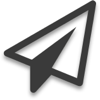
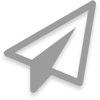
edit style

diff --git a/_layouts/home.html b/_layouts/home.html
@@ -1,39 +1,39 @@
 <!DOCTYPE html>
 <html>
 <!--
-                       ::
-                      :;J7, :,                        ::;7:
-                      ,ivYi, ,                       ;LLLFS:
-                      :iv7Yi                       :7ri;j5PL
-                     ,:ivYLvr                    ,ivrrirrY2X,
-                     :;r@Wwz.7r:                :ivu@kexianli.
-                    :iL7::,:::iiirii:ii;::::,,irvF7rvvLujL7ur
-                   ri::,:,::i:iiiiiii:i:irrv177JX7rYXqZEkvv17
-                ;i:, , ::::iirrririi:i:::iiir2XXvii;L8OGJr71i
-              :,, ,,:   ,::ir@mingyi.irii:i:::j1jri7ZBOS7ivv,
-                 ,::,    ::rv77iiiriii:iii:i::,rvLq@huhao.Li
-             ,,      ,, ,:ir7ir::,:::i;ir:::i:i::rSGGYri712:
-           :::  ,v7r:: ::rrv77:, ,, ,:i7rrii:::::, ir7ri7Lri
-          ,     2OBBOi,iiir;r::        ,irriiii::,, ,iv7Luur:
-        ,,     i78MBBi,:,:::,:,  :7FSL: ,iriii:::i::,,:rLqXv::
-        :      iuMMP: :,:::,:ii;2GY7OBB0viiii:i:iii:i:::iJqL;::
-       ,     ::::i   ,,,,, ::LuBBu BBBBBErii:i:i:i:i:i:i:r77ii
-      ,       :       , ,,:::rruBZ1MBBqi, :,,,:::,::::::iiriri:
-     ,               ,,,,::::i:  @arqiao.       ,:,, ,:::ii;i7:
-    :,       rjujLYLi   ,,:::::,:::::::::,,   ,:i,:,,,,,::i:iii
-    ::      BBBBBBBBB0,    ,,::: , ,:::::: ,      ,,,, ,,:::::::
-    i,  ,  ,8BMMBBBBBBi     ,,:,,     ,,, , ,   , , , :,::ii::i::
-    :      iZMOMOMBBM2::::::::::,,,,     ,,,,,,:,,,::::i:irr:i:::,
-    i   ,,:;u0MBMOG1L:::i::::::  ,,,::,   ,,, ::::::i:i:iirii:i:i:
-    :    ,iuUuuXUkFu7i:iii:i:::, :,:,: ::::::::i:i:::::iirr7iiri::
-    :     :rk@Yizero.i:::::, ,:ii:::::::i:::::i::,::::iirrriiiri::,
-     :      5BMBBBBBBSr:,::rv2kuii:::iii::,:i:,, , ,,:,:i@petermu.,
-          , :r50EZ8MBBBBGOBBBZP7::::i::,:::::,: :,:,::i;rrririiii::
-              :jujYY7LS0ujJL7r::,::i::,::::::::::::::iirirrrrrrr:ii:
-           ,:  :@kevensun.:,:,,,::::i:i:::::,,::::::iir;ii;7v77;ii;i,
-           ,,,     ,,:,::::::i:iiiii:i::::,, ::::iiiir@xingjief.r;7:i,
-        , , ,,,:,,::::::::iiiiiiiiii:,:,:::::::::iiir;ri7vL77rrirri::
-         :,, , ::::::::i:::i:::i:i::,,,,,:,::i:i:::iir;@Secbone.ii:::
+                                         ::
+                                        :;J7, :,                        ::;7:
+                                        ,ivYi, ,                       ;LLLFS:
+                                        :iv7Yi                       :7ri;j5PL
+                                       ,:ivYLvr                    ,ivrrirrY2X,
+                                       :;r@Wwz.7r:                :ivu@kexianli.
+                                      :iL7::,:::iiirii:ii;::::,,irvF7rvvLujL7ur
+                                     ri::,:,::i:iiiiiii:i:irrv177JX7rYXqZEkvv17
+                                  ;i:, , ::::iirrririi:i:::iiir2XXvii;L8OGJr71i
+                                :,, ,,:   ,::ir@mingyi.irii:i:::j1jri7ZBOS7ivv,
+                                   ,::,    ::rv77iiiriii:iii:i::,rvLq@huhao.Li
+                               ,,      ,, ,:ir7ir::,:::i;ir:::i:i::rSGGYri712:
+                             :::  ,v7r:: ::rrv77:, ,, ,:i7rrii:::::, ir7ri7Lri
+                            ,     2OBBOi,iiir;r::        ,irriiii::,, ,iv7Luur:
+                          ,,     i78MBBi,:,:::,:,  :7FSL: ,iriii:::i::,,:rLqXv::
+                          :      iuMMP: :,:::,:ii;2GY7OBB0viiii:i:iii:i:::iJqL;::
+                         ,     ::::i   ,,,,, ::LuBBu BBBBBErii:i:i:i:i:i:i:r77ii
+                        ,       :       , ,,:::rruBZ1MBBqi, :,,,:::,::::::iiriri:
+                       ,               ,,,,::::i:  @arqiao.       ,:,, ,:::ii;i7:
+                      :,       rjujLYLi   ,,:::::,:::::::::,,   ,:i,:,,,,,::i:iii
+                      ::      BBBBBBBBB0,    ,,::: , ,:::::: ,      ,,,, ,,:::::::
+                      i,  ,  ,8BMMBBBBBBi     ,,:,,     ,,, , ,   , , , :,::ii::i::
+                      :      iZMOMOMBBM2::::::::::,,,,     ,,,,,,:,,,::::i:irr:i:::,
+                      i   ,,:;u0MBMOG1L:::i::::::  ,,,::,   ,,, ::::::i:i:iirii:i:i:
+                      :    ,iuUuuXUkFu7i:iii:i:::, :,:,: ::::::::i:i:::::iirr7iiri::
+                      :     :rk@Yizero.i:::::, ,:ii:::::::i:::::i::,::::iirrriiiri::,
+                       :      5BMBBBBBBSr:,::rv2kuii:::iii::,:i:,, , ,,:,:i@petermu.,
+                            , :r50EZ8MBBBBGOBBBZP7::::i::,:::::,: :,:,::i;rrririiii::
+                                :jujYY7LS0ujJL7r::,::i::,::::::::::::::iirirrrrrrr:ii:
+                             ,:  :@kevensun.:,:,,,::::i:i:::::,,::::::iir;ii;7v77;ii;i,
+                             ,,,     ,,:,::::::i:iiiii:i::::,, ::::iiiir@xingjief.r;7:i,
+                          , , ,,,:,,::::::::iiiiiiiiii:,:,:::::::::iiir;ri7vL77rrirri::
+                           :,, , ::::::::i:::i:::i:i::,,,,,:,::i:i:::iir;@Secbone.ii:::
 ██╗    ██╗ █████╗ ██╗████████╗██╗███╗   ██╗ ██████╗     ███████╗ ██████╗ ██████╗     ██╗   ██╗ ██████╗ ██╗   ██╗
 ██║    ██║██╔══██╗██║╚══██╔══╝██║████╗  ██║██╔════╝     ██╔════╝██╔═══██╗██╔══██╗    ╚██╗ ██╔╝██╔═══██╗██║   ██║
 ██║ █╗ ██║███████║██║   ██║   ██║██╔██╗ ██║██║  ███╗    █████╗  ██║   ██║██████╔╝     ╚████╔╝ ██║   ██║██║   ██║

diff --git a/about.md b/about.md
@@ -7,12 +7,12 @@ image:
   feature: 
 ---
 <figure>
-  <img src="{{ site.url }}/images/free.jpg" alt="耐冬">
-  <figcaption>Wei</figcaption>
+  <img src="{{ site.url }}/images/free.jpg" alt="picure">
+  <figcaption>He Can't Stop</figcaption>
 </figure>
 <div class="alert alert-success" role="alert">
-	那个当年作业被标记“重写”的小学生，<br/>
-	那个当年英语作文中出现“In the end”歌词写的学生，<br/>
+	那个当年作业被批“重写”的小学生，<br/>
+	那个当年英语作文中出现“In the end”歌词的中学生，<br/>
 	那个当年“无知”的大学毕业生，<br/>
 	那个当年脑子只有“对、错”的职场新人，<br/>
 	<strong>他</strong>还努力地活着！
@@ -29,22 +29,20 @@ image:
 - Swift
 - BASIC
 
-## Projects
-- Docker
-- Hadoop
-- Web
+## Skills
+- Project management
+- Architecture
+- Programming
 
 ## Read
-- 心理学
 - 管理学
+- 心理学
 - 软件架构
 - 人工智能
-- 惊悚
 - 科幻
 
 ## Hobbies
-- 电影、游戏
-- 视觉设计
+- 电影
 - 流行音乐
 - Shuer
 

diff --git a/project.md b/project.md
@@ -1,13 +1,12 @@
 ---
 layout: page
 permalink: /project/index.html
-title: 项目
+title: Project
 tags: [project]
 image:
 feature:
 ---
 
-## PatternViaJava
 [PatternViaJava](https://github.com/JeffreyWei/PatternViaJava)
 
 24种设计模式`java`版
